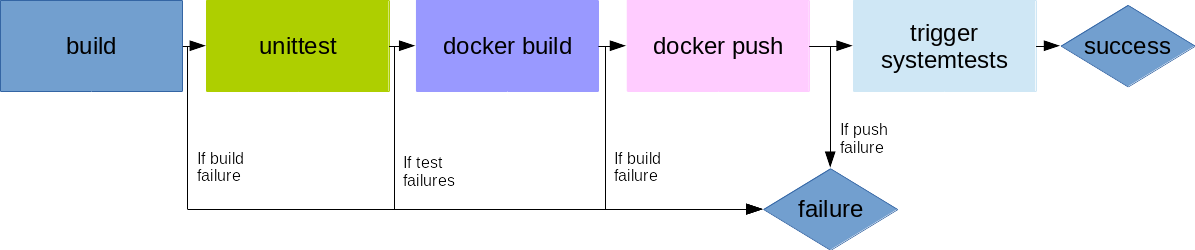
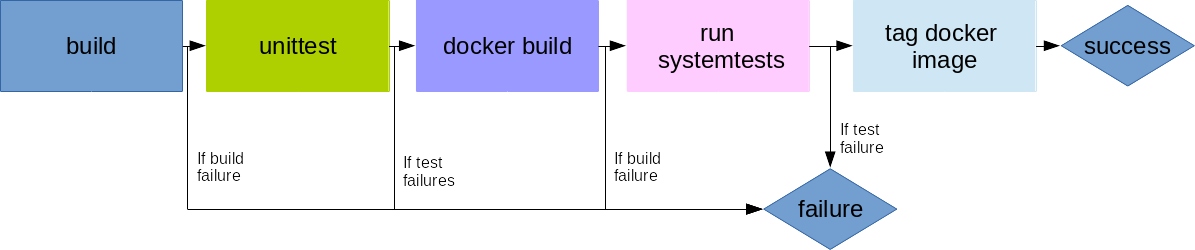
Update CI documentation

diff --git a/documentation/ci/README.md b/documentation/ci/README.md
@@ -1,9 +1,8 @@
 # EnMasse CI
 
 EnMasse uses [Travis CI](http://travis-ci.org/) for continuous integration (CI). All components
-in EnMasse is built, unit tested and dockerized in each individual repository. At the end of each
-build, the docker image is pushed to [Docker Hub](https://hub.docker.com/r/enmasseproject/) and the
-[systemtest](https://github.com/EnMasseProject/systemtests/) are run using the latest set of docker
-images.
+in EnMasse is built, unit tested and dockerized in each individual repository. Before the docker
+image is tagged with 'latest' version, a full systemtest run with the built image is performed. If
+the test is successfull (and it is not a PR), the new image is marked as latest on [Docker Hub](https://hub.docker.com/r/enmasseproject/).
 
 ![Overview](ci.png)
